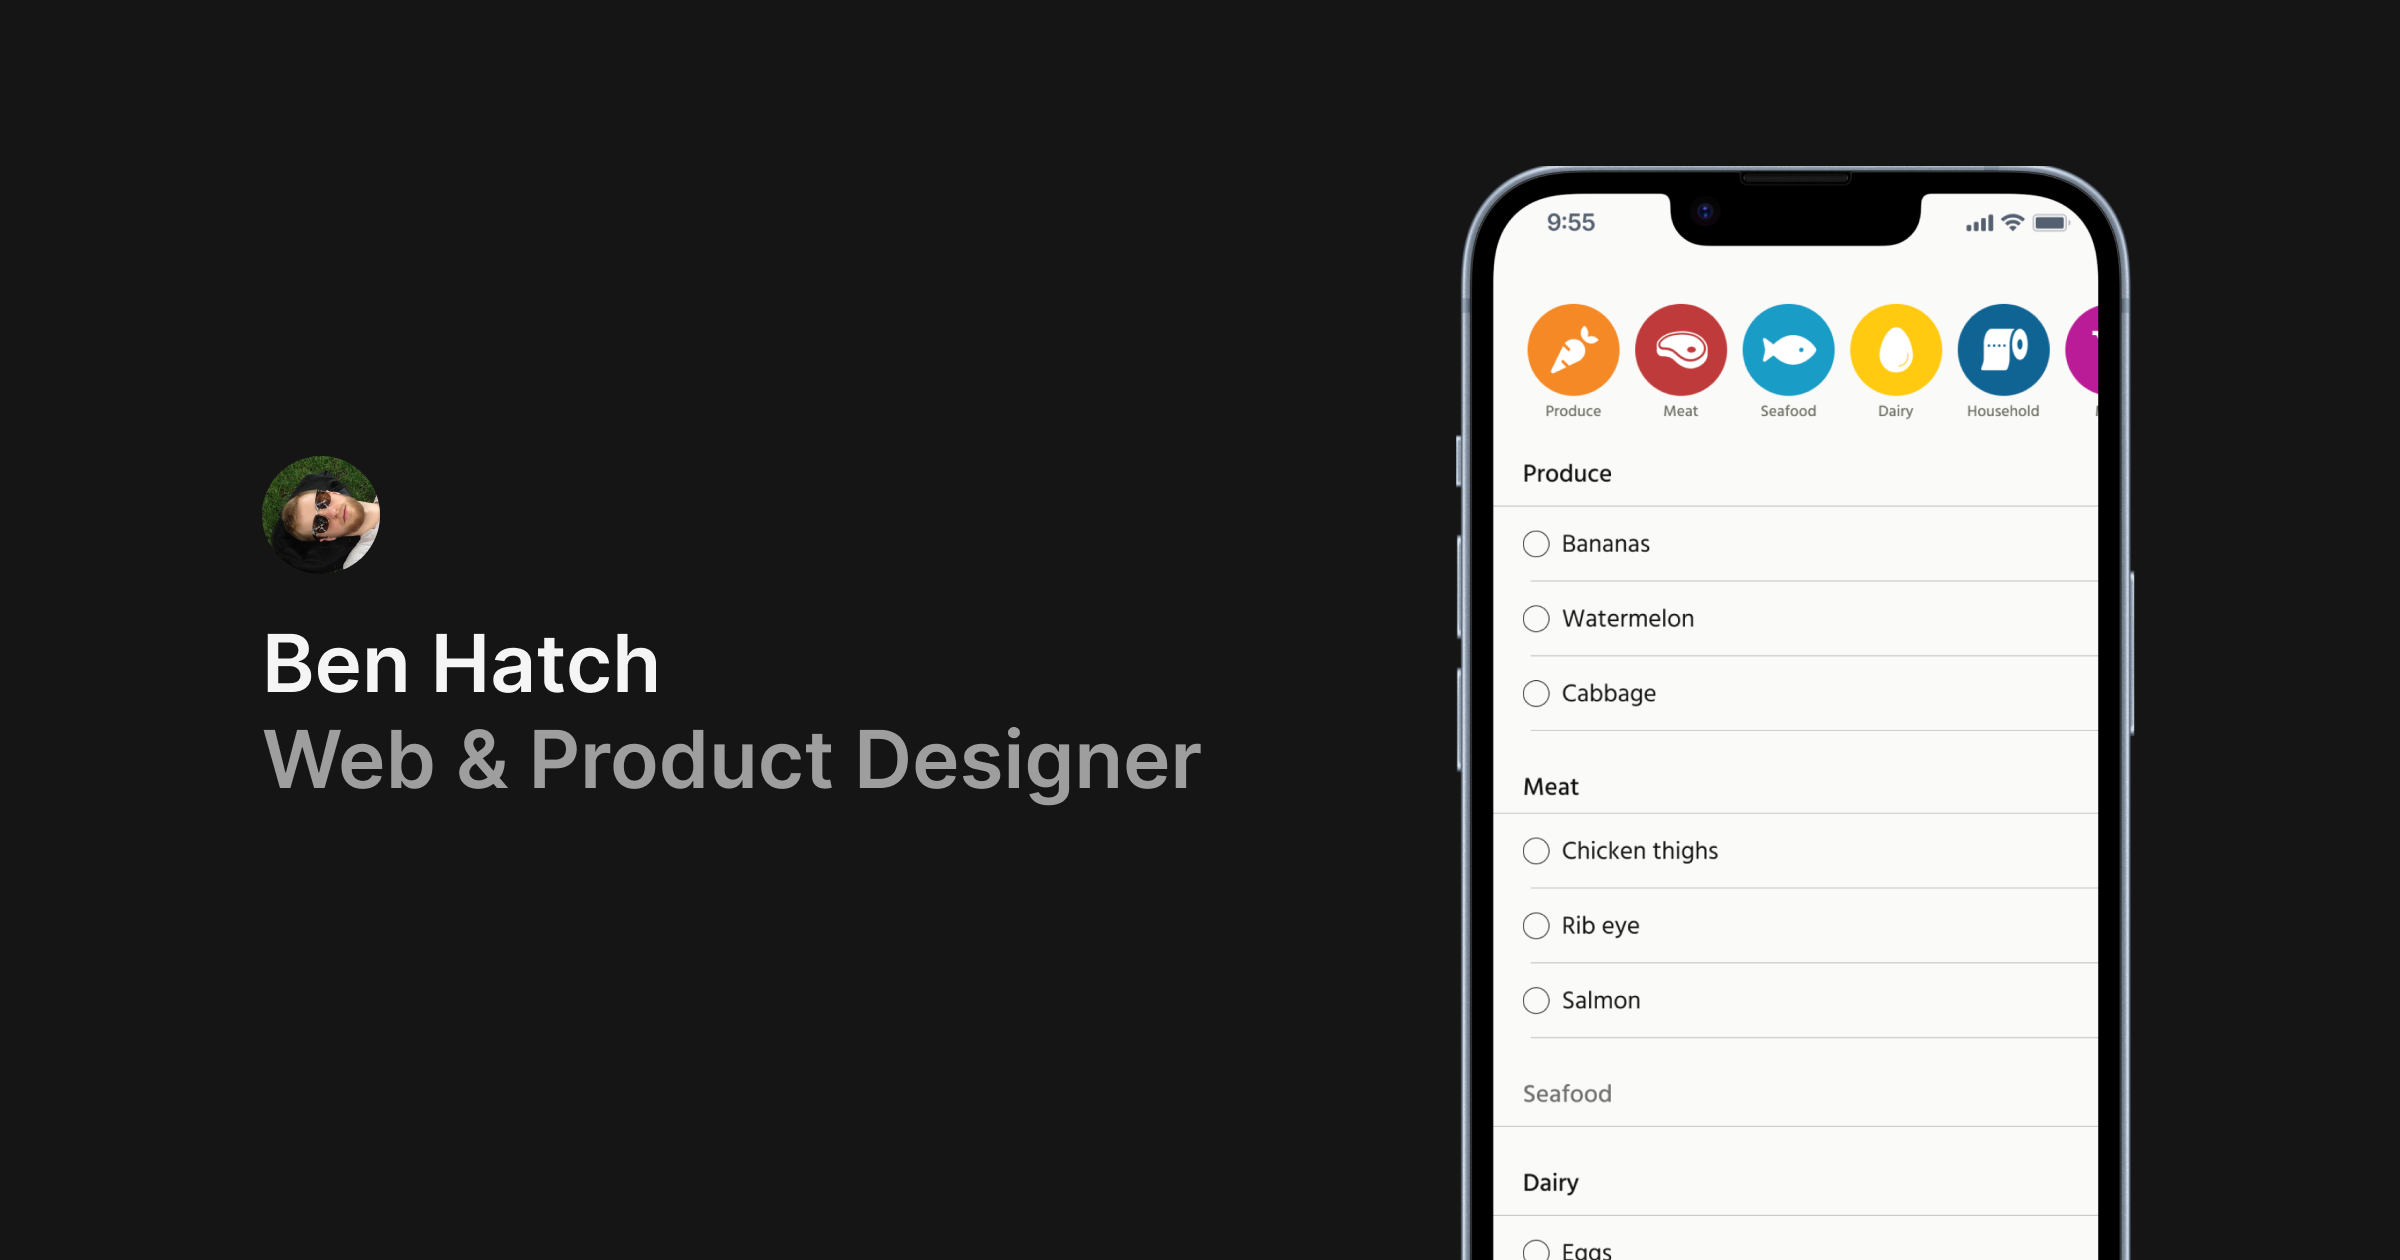
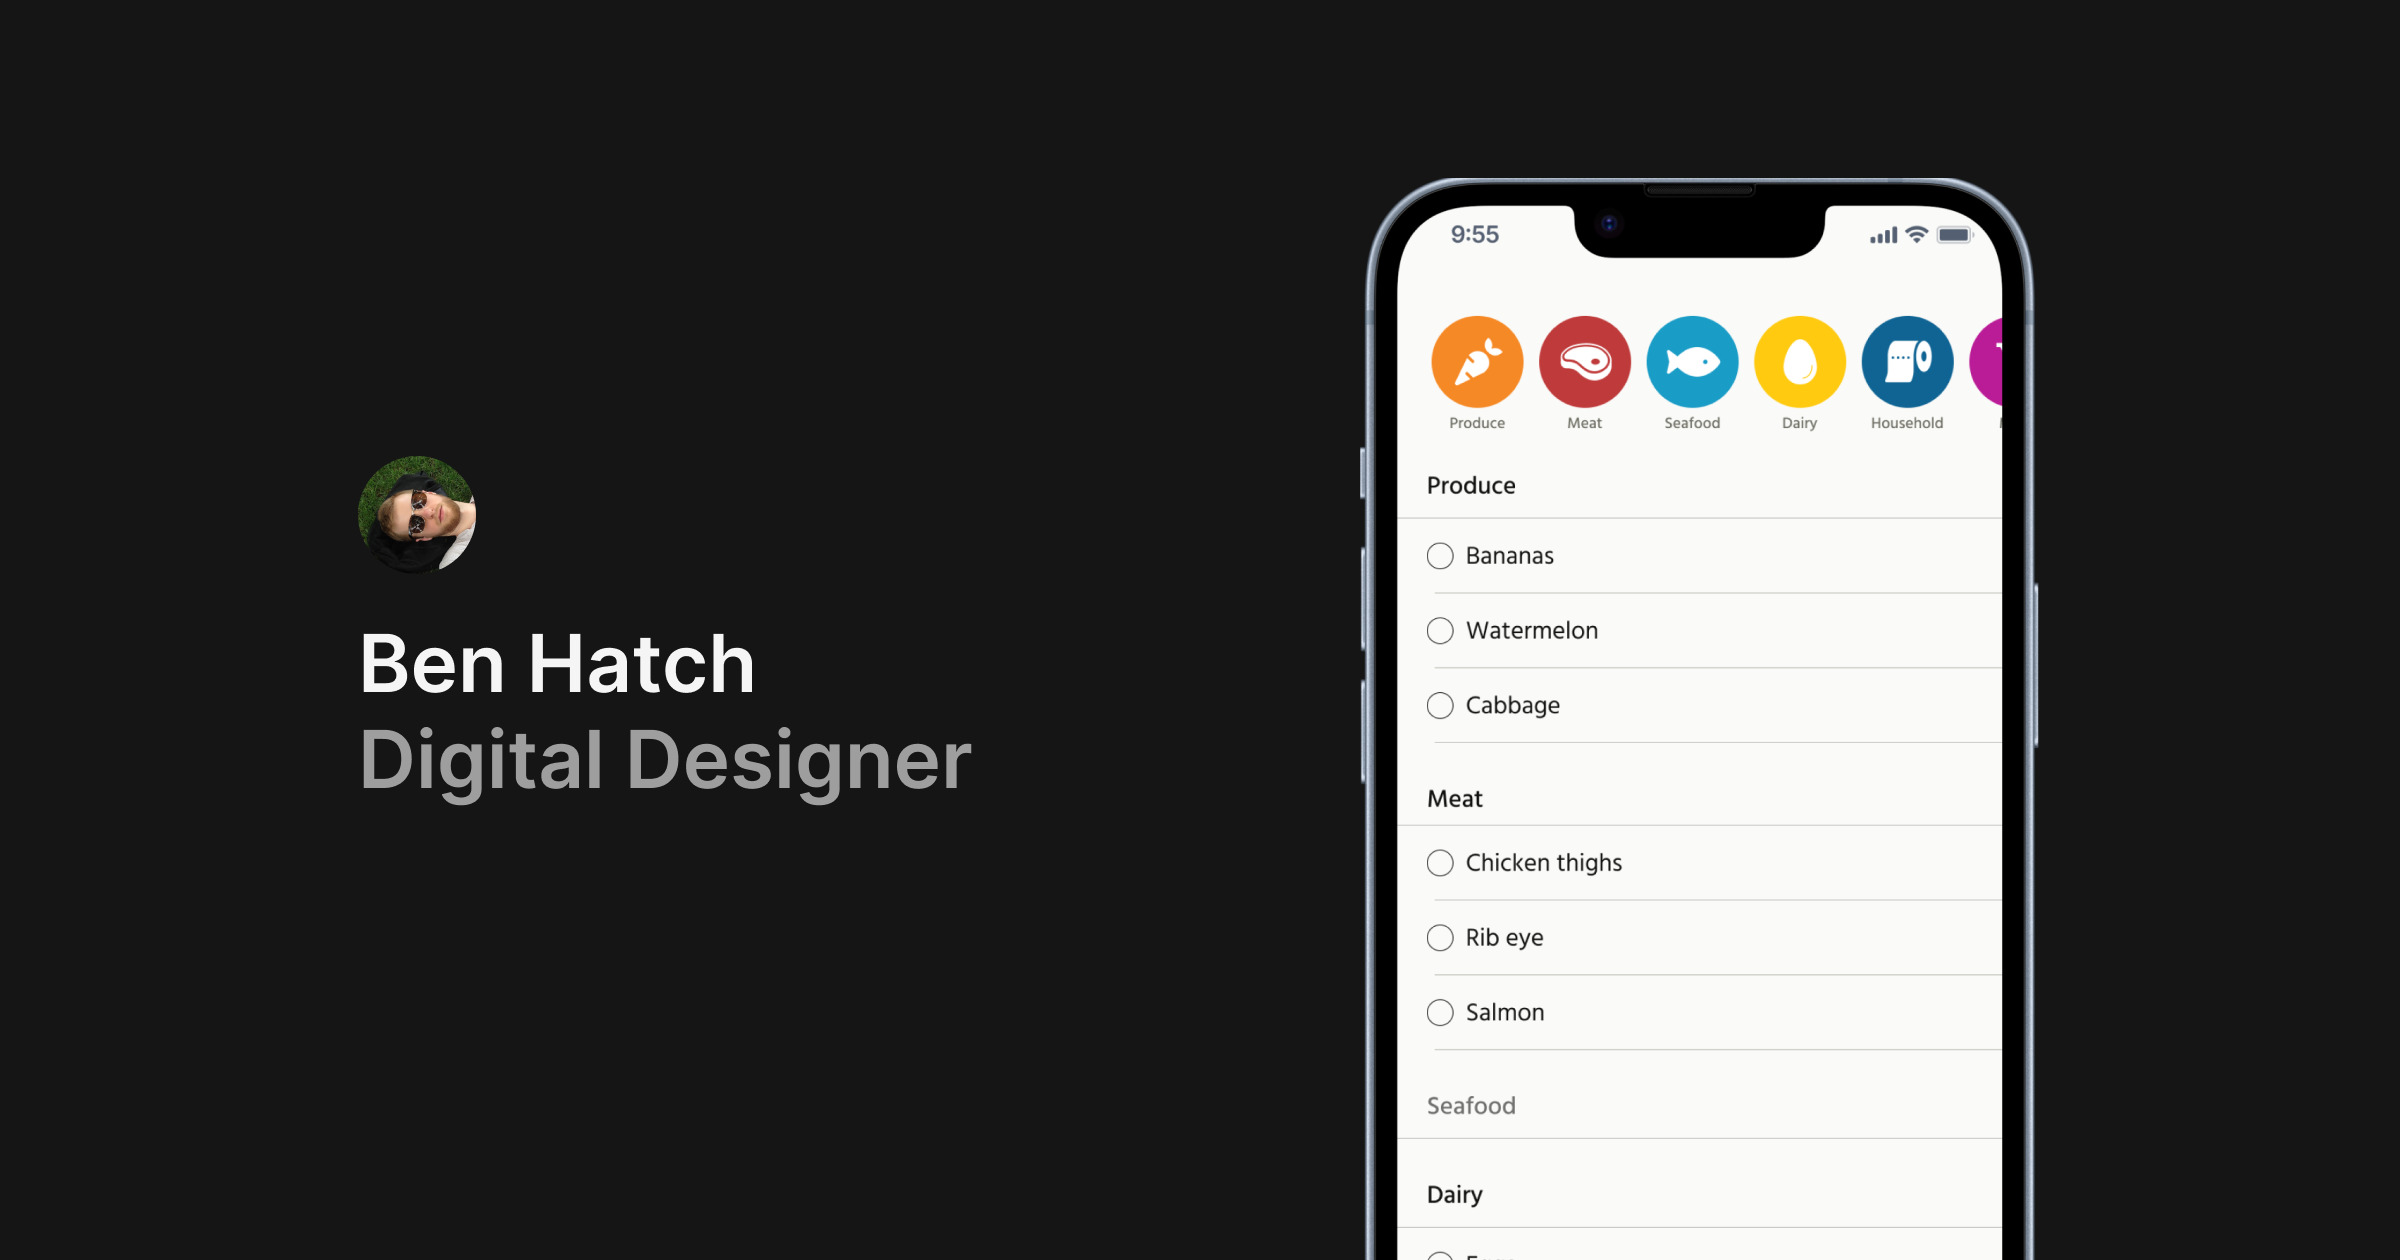
Update hero bio and home og

Changed region(s): [[0.5625, 0.1238, 0.9062, 1.0], [0.0938, 0.4952, 0.5, 0.65], [0.0938, 0.3405, 0.2188, 0.4643]]

diff --git a/index.html b/index.html
@@ -9,14 +9,14 @@
     <meta name="viewport" content="width=device-width, initial-scale=1, minimum-scale=1">
     <meta charset="UTF-8">
     <meta property="og:type" content="website">
-    <meta property="og:title" content="Ben Hatch | Web & Product Designer">
+    <meta property="og:title" content="Ben Hatch | Digital Designer">
     <meta property="og:description"
-        content="I am a web and product designer based in Massachusetts. I design and develop polished websites, applications, digital assets.">
+        content="I am a digital designer based in Massachusetts. I design and develop polished websites, applications, identities and digital assets.">
     <meta property="og:image" content="https://benhatch.com/images/og/bh-home-og.png">
     <meta name="twitter:card" content="summary_large_image">
-    <meta name="twitter:title" content="Ben Hatch | Web & Product Designer">
+    <meta name="twitter:title" content="Ben Hatch | Digital Designer">
     <meta name="twitter:description"
-        content="I am a web and product designer based in Massachusetts. I design and develop polished websites, applications, digital assets.">
+        content="I am a digital designer based in Massachusetts. I design and develop polished websites, applications, identities and digital assets.">
     <meta name="twitter:image" content="https://benhatch.com/images/og/bh-home-og.png">
 </head>
 
@@ -57,8 +57,8 @@
                     <p class="freelance-text">Open for freelance</p>
                 </div>
             </div>
-            <h1>I’m Ben, a Web & Product Designer based in Massachusetts.</h1>
-            <h3>I design and develop polished websites, applications and <a href="https://benhatch.com/shop">digital
+            <h1>I’m Ben, a Digital Designer based in Massachusetts.</h1>
+            <h3>I design and develop polished websites, applications, identities and <a href="https://benhatch.com/shop">digital
                     assets</a>. I also <a href="https://benhatch.com/blog">write</a> about design, indie making and
                 other topics that give me a good brain sweat.
             </h3>
